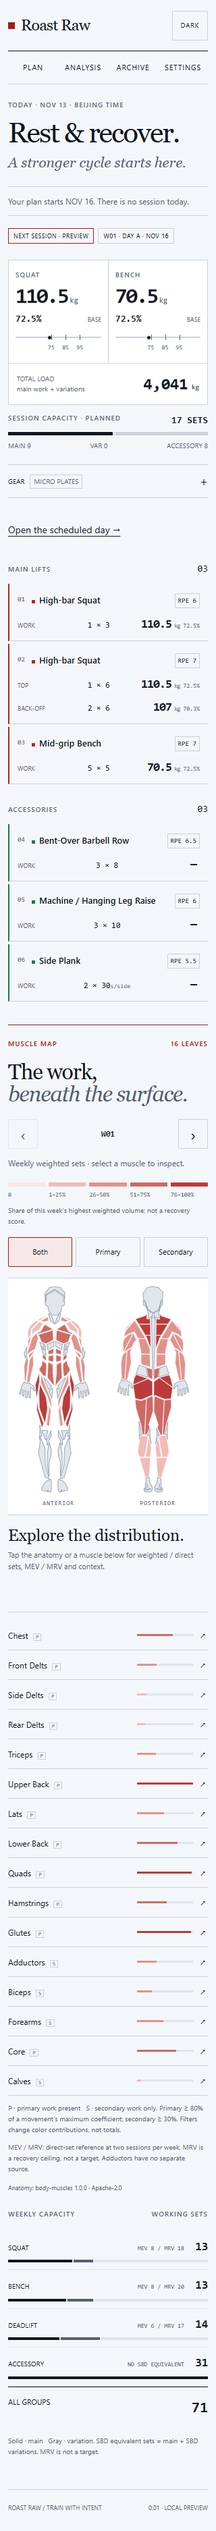
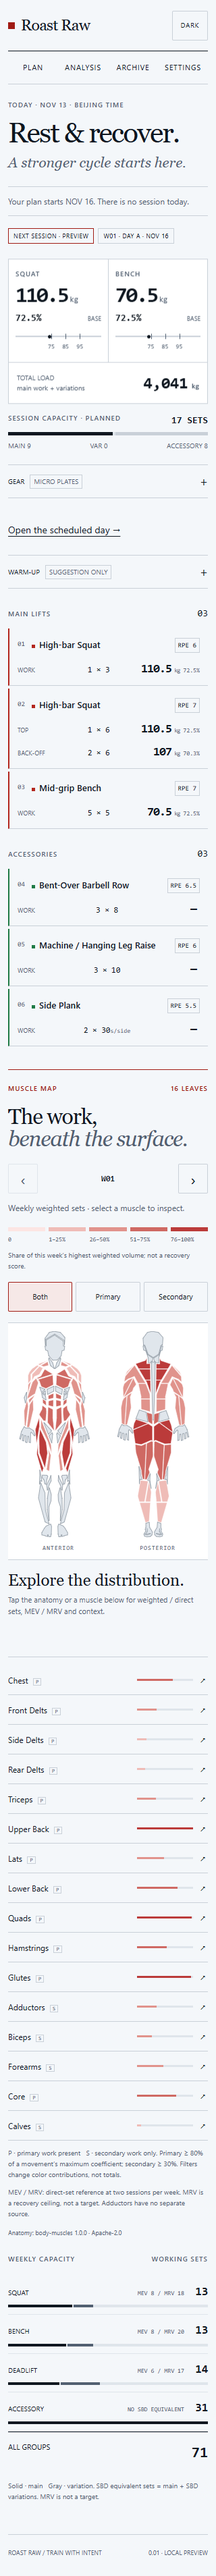
Add 0.02 read-state gaps: warm-up suggestions and deload notice
Warm-up steps render from plan.warmups as a collapsed suggestion-only
block on Today and opened plan days; deload weeks carry an explicit
lighter-loads-same-movements notice. Browser regression covers both,
including expanded overflow at 320px.

Changed region(s): [[0.0312, 0.0, 0.9688, 0.9984], [0.8438, 0.0, 0.9375, 0.0312]]

diff --git a/web/src/App.vue b/web/src/App.vue
@@ -4,6 +4,7 @@ import { useRoute, useRouter } from 'vue-router';
 import { animate } from '@motionone/dom';
 import MuscleMap from './components/MuscleMap.vue';
 import ExerciseRows from './components/ExerciseRows.vue';
+import WarmupSuggestions from './components/WarmupSuggestions.vue';
 import WeekCapacity from './components/WeekCapacity.vue';
 import CapacityBoard from './components/CapacityBoard.vue';
 
@@ -64,6 +65,7 @@ const leaves = computed(() => analysis.value.leafOrder.map(id => {
   return { id, name: geometry.value.leaves[id].en, weighted: values.w, raw: values.raw, direct: values.d, primaryWeighted: values.primaryWeighted, secondaryWeighted: values.secondaryWeighted, mev: range.mev, mrv: range.mrv, scope: range.scope, verdict };
 }));
 const display = value => value === null || value === undefined ? '—' : Number(value).toLocaleString('en-US', { maximumFractionDigits: 1 });
+const DELOAD_NOTE = 'Deload week: lighter loads, same movements. Nothing is skipped and no date moves.';
 function dateLabel(value) { return new Intl.DateTimeFormat('en-US', { month: 'short', day: '2-digit', timeZone: 'Asia/Shanghai' }).format(new Date(`${value}T00:00:00+08:00`)).toUpperCase(); }
 function selectWeek(number) {
   if (number < 1 || number > plan.value.weeks.length) return;
@@ -115,6 +117,7 @@ watch(page, value => { if (value !== 'analysis' && mode.value !== 'plan') change
             <h1>{{ calendar.status === 'training' ? todayLifts.map(lift => lift.label.charAt(0) + lift.label.slice(1).toLowerCase()).join(' · ') || 'Training day.' : calendar.status === 'ended' ? 'Cycle complete.' : 'Rest & recover.' }}</h1>
             <p class="hero-subtitle">{{ calendar.status === 'training' ? plan.weeks.find(week => week.n === calendar.week).blockName : calendar.status === 'upcoming' ? 'A stronger cycle starts here.' : 'The calendar stays. Recovery matters.' }}</p>
             <p v-if="calendar.status !== 'training'" class="notice">{{ calendar.status === 'upcoming' ? `Your plan starts ${dateLabel(plan.meta.startDate)}. There is no session today.` : calendar.status === 'ended' ? 'The scheduled cycle has ended. No training dates have been moved.' : 'No session scheduled today. Missed sessions do not move the calendar.' }}</p>
+            <p v-if="calendar.status === 'training' && plan.weeks.find(item => item.n === calendar.week)?.kind === 'deload'" class="notice">{{ DELOAD_NOTE }}</p>
             <template v-if="todaySession">
               <div class="badges"><span class="badge">{{ calendar.day ? 'TODAY’S SESSION' : 'NEXT SESSION · PREVIEW' }}</span><span class="badge">W{{ String(todaySession.week).padStart(2, '0') }} · DAY {{ todaySession.day }} · {{ dateLabel(todaySession.date) }}</span></div>
               <section v-if="todayLifts.length" class="main-loads" :style="{ '--columns': todayLifts.length }" aria-label="Main lift loads">
@@ -124,6 +127,7 @@ watch(page, value => { if (value !== 'analysis' && mode.value !== 'plan') change
               <section class="day-capacity" aria-label="Session capacity"><header><span class="section-label">SESSION CAPACITY · PLANNED</span><strong>{{ todaySetCount }} SETS</strong></header><div class="capacity-track"><i v-for="(sets, index) in [todayTotals.main, todayTotals.sbdVar + todayTotals.nonSbdVar, todayTotals.accessory]" :key="index" :style="{ width: `${sets / Math.max(todaySetCount, 1) * 100}%` }"></i></div><div class="capacity-key"><span>MAIN {{ todayTotals.main }}</span><span>VAR {{ todayTotals.sbdVar + todayTotals.nonSbdVar }}</span><span>ACCESSORY {{ todayTotals.accessory }}</span></div></section>
               <details class="gear"><summary>GEAR <span class="chip">{{ todayLifts.some(lift => lift.load % 2.5 !== 0) ? 'MICRO PLATES' : 'SESSION SETUP' }}</span></summary><p>{{ todayLifts.some(lift => lift.load % 2.5 !== 0) ? 'Some prescribed loads need micro plates. Prepare equipment before the session; the plan’s loads remain unchanged.' : 'Prepare your usual training equipment. Detailed gear guidance follows in the reading-view milestone.' }}</p></details>
               <RouterLink :to="`/plan/week/${todaySession.week}/day/${todaySession.day}`" class="inline-link">Open the scheduled day →</RouterLink>
+              <WarmupSuggestions :entries="plan.warmups?.[todaySession.date] || []" />
               <ExerciseRows :rows="todayRows" />
             </template>
           </div>
@@ -139,11 +143,13 @@ watch(page, value => { if (value !== 'analysis' && mode.value !== 'plan') change
               <div class="week-progress" aria-hidden="true"><i v-for="item in plan.weeks" :key="item.n" :class="{ active: item.n === currentWeek, deload: item.kind === 'deload' }"></i></div>
               <nav class="week-rail" aria-label="Weeks in selected block"><RouterLink v-for="item in plan.weeks.filter(w => w.blockId === week.blockId)" :key="item.n" :to="`/plan/week/${item.n}`" :class="[item.kind, { active: item.n === currentWeek }]">{{ String(item.n).padStart(2, '0') }}</RouterLink></nav>
               <div class="week-header"><span class="week-number">{{ currentWeek }}</span><div><h2>{{ weekMeta.blockName }}</h2><small>{{ week.kind.toUpperCase() }} WEEK</small></div><div class="week-summary"><strong>{{ display(week.tonnageKg / 1000) }} t</strong><small>{{ week.sessions }} SESSIONS</small></div></div>
+              <p v-if="weekMeta.kind === 'deload'" class="notice">{{ DELOAD_NOTE }}</p>
               <div class="top-intensity"><span>TOP %1RM <b>{{ display(week.topPct) }}%</b></span><span>S {{ display(week.topPctByLift.S) }} · B {{ display(week.topPctByLift.B) }} · D {{ display(week.topPctByLift.D) }}</span></div>
               <p class="breadcrumb">Plan / {{ week.blockId }} / Week {{ currentWeek }}<template v-if="route.params.day"> / Day {{ route.params.day }}</template></p>
               <div v-for="day in days" :key="day.date">
                 <template v-if="day.rows.length">
                   <RouterLink class="day-row" :to="route.params.day === day.id ? `/plan/week/${currentWeek}` : `/plan/week/${currentWeek}/day/${day.id}`" :aria-expanded="route.params.day === day.id"><span class="day-date"><strong>{{ day.label }}</strong>{{ day.weekday }}</span><span class="day-letter">{{ day.id }}</span><span class="day-info"><span class="top-load"><small>TOP</small>{{ topLifts(day.rows).map(lift => `${lift.code} ${display(lift.load)}`).join(' · ') || 'ACCESSORY WORK' }}</span><span class="day-title" style="display:block">{{ plan.days.find(item => item.id === day.id).titleEn }}</span><span class="day-status">{{ (calendar.sessionStates[`${currentWeek}|${day.id}`] || 'scheduled').toUpperCase() }}</span></span><span>{{ route.params.day === day.id ? '−' : '›' }}</span></RouterLink>
+                  <WarmupSuggestions v-if="route.params.day === day.id" :entries="plan.warmups?.[day.date] || []" />
                   <ExerciseRows v-if="route.params.day === day.id" :rows="day.rows" />
                 </template>
                 <div v-else class="rest-row"><span>{{ day.label }} · {{ day.weekday }}</span><span>REST</span></div>

diff --git a/web/src/style.css b/web/src/style.css
@@ -65,6 +65,10 @@ main { padding: 30px 0 48px; }
 .gear summary::-webkit-details-marker { display: none; }
 .gear .chip { padding: 2px 5px; border: 1px solid var(--line); color: var(--muted); }
 .gear p { font-size: 12px; padding-bottom: 16px; color: var(--muted); }
+.warmups .warmup-lift { padding-bottom: 12px; }
+.warmups .warmup-steps { font: 11px/1.7 var(--mono); color: var(--ink); padding-bottom: 0; }
+.warmups .warmup-steps span:not(:last-child)::after { content: " ·"; color: var(--muted); }
+.warmups p.micro-copy { font-size: 10px; }
 .section-kicker { display: flex; justify-content: space-between; gap: 8px; margin-bottom: 18px; }
 .section-heading { display: flex; justify-content: space-between; align-items: baseline; margin: 26px 0 12px; }
 .exercise { border-left: 2px solid var(--role); padding: 14px 12px; border-bottom: 1px solid var(--line); margin-bottom: 4px; }

diff --git a/web/src/components/WarmupSuggestions.vue b/web/src/components/WarmupSuggestions.vue
@@ -1,0 +1,14 @@
+<script setup>
+defineProps({ entries: { type: Array, default: () => [] } });
+</script>
+
+<template>
+  <details v-if="entries.length" class="gear warmups" data-testid="warmups">
+    <summary>WARM-UP <span class="chip">SUGGESTION ONLY</span></summary>
+    <div v-for="entry in entries" :key="entry.lift" class="warmup-lift">
+      <span class="section-label">{{ entry.movement }}</span>
+      <p class="warmup-steps"><span v-for="(step, index) in entry.steps" :key="index">{{ step.label }} {{ step.kg }} kg × {{ step.reps }}</span></p>
+    </div>
+    <p class="micro-copy">Generated from the session’s top loads. Suggestions only — never written to your log.</p>
+  </details>
+</template>

diff --git a/AGENTS.md b/AGENTS.md
@@ -118,6 +118,7 @@ npm --prefix web run dev                 # 开发态 5173，代理 /api
 ```
 
 完整 setup（venv / pip 镜像 / npm ci）见 `README.md`，不在此抄。
+提交身份：`git -c user.name=Astra -c user.email=astra@roastraw.local commit …`（身份不写 config；密钥目录任何新文件自动被 `Ref/07_Permissions/*` 忽略，勿改该规则）。
 
 ## 6 · 症状 → 对策（拿报错原文搜这张表，别通读）
 
